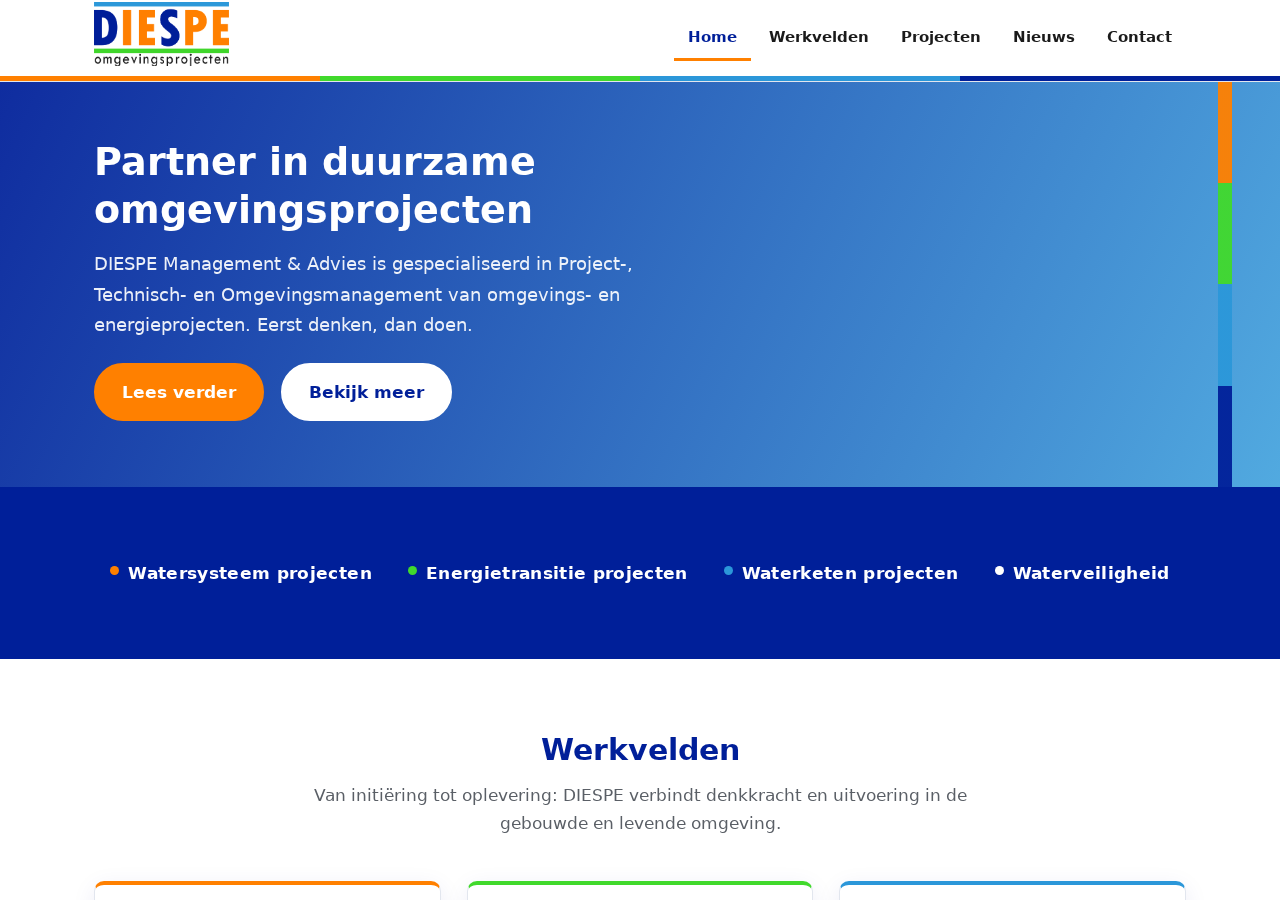
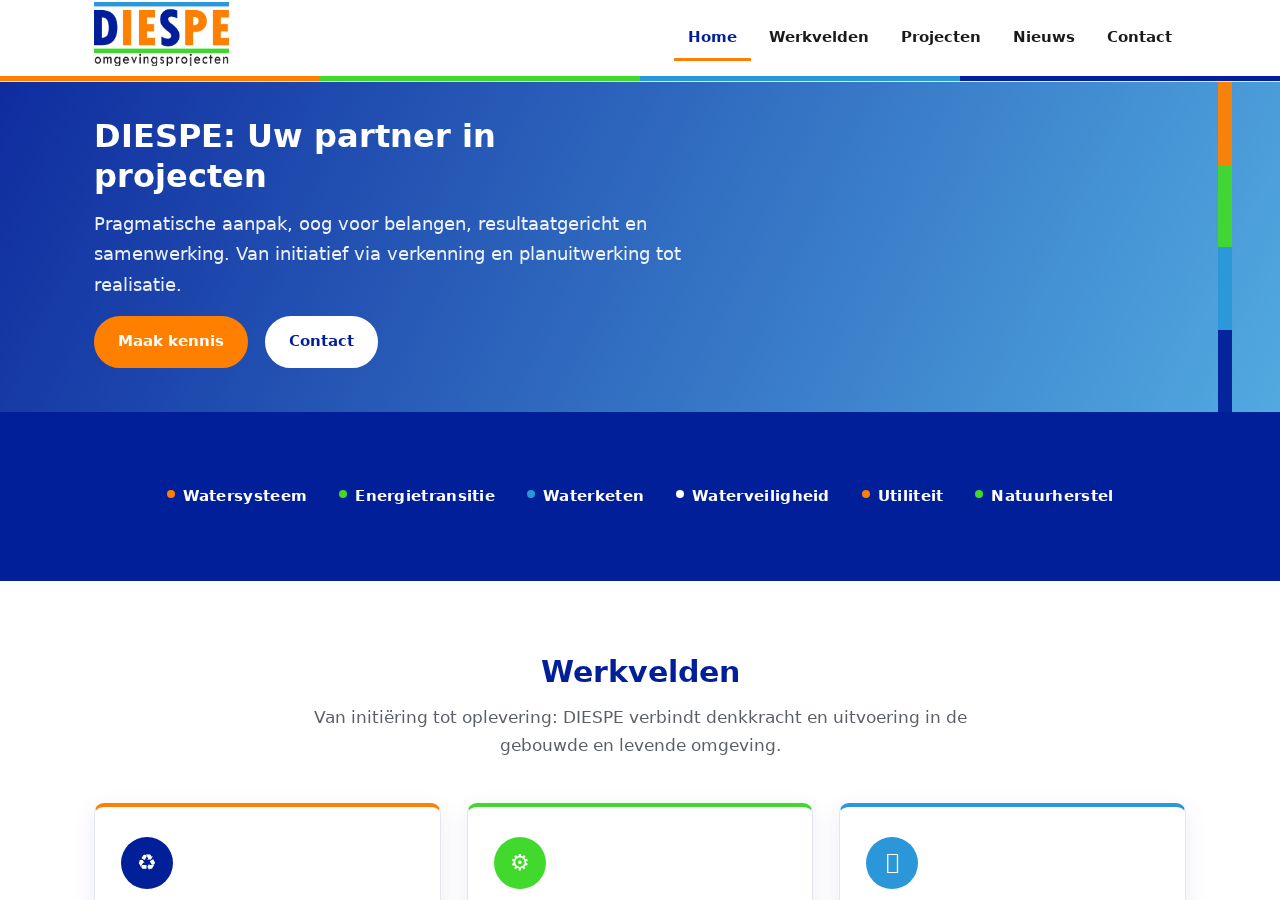
Hero en werkgebieden-balk herzien: nieuwe titel, wervende tekst, knoppen, compactere hoogte

diff --git a/preview/style.css b/preview/style.css
@@ -235,9 +235,13 @@ p { margin: 0 0 1.2em; }
   background:
     linear-gradient(115deg, rgba(0, 31, 153, 0.94), rgba(43, 151, 217, 0.82));
   color: #fff;
-  padding: 56px 0;
+  padding: 34px 0;
   overflow: hidden;
 }
+
+.hero h1 { font-size: 2rem; margin-bottom: 0.25em; }
+.hero p { font-size: 1.02rem; margin-bottom: 0.9em; }
+.hero .btn { padding: 11px 22px; font-size: 0.95rem; }
 
 .hero::after {
   content: "";
@@ -282,7 +286,7 @@ p { margin: 0 0 1.2em; }
 
 /* Werkgebieden-balk direct onder de hero */
 .workfields-strip {
-  padding: 22px 0;
+  padding: 12px 0;
   background: var(--diespe-blue);
   color: #fff;
 }
@@ -292,25 +296,28 @@ p { margin: 0 0 1.2em; }
   padding: 0;
   display: flex;
   flex-wrap: wrap;
-  gap: 10px 36px;
+  gap: 6px 32px;
   justify-content: center;
   font-weight: 700;
+  font-size: 0.95rem;
   letter-spacing: 0.02em;
 }
-.workfields-list li { position: relative; padding-left: 18px; }
+.workfields-list li { position: relative; padding-left: 16px; }
 .workfields-list li::before {
   content: "";
   position: absolute;
   left: 0;
-  top: 0.45em;
-  width: 9px;
-  height: 9px;
+  top: 0.4em;
+  width: 8px;
+  height: 8px;
   border-radius: 50%;
   background: var(--diespe-orange);
 }
 .workfields-list li:nth-child(2)::before { background: var(--diespe-green); }
 .workfields-list li:nth-child(3)::before { background: var(--diespe-blue-light); }
 .workfields-list li:nth-child(4)::before { background: #fff; }
+.workfields-list li:nth-child(5)::before { background: var(--diespe-orange); }
+.workfields-list li:nth-child(6)::before { background: var(--diespe-green); }
 
 /* =Secties
 -------------------------------------------------------------- */

diff --git a/style.css b/style.css
@@ -235,9 +235,13 @@ p { margin: 0 0 1.2em; }
   background:
     linear-gradient(115deg, rgba(0, 31, 153, 0.94), rgba(43, 151, 217, 0.82));
   color: #fff;
-  padding: 56px 0;
+  padding: 34px 0;
   overflow: hidden;
 }
+
+.hero h1 { font-size: 2rem; margin-bottom: 0.25em; }
+.hero p { font-size: 1.02rem; margin-bottom: 0.9em; }
+.hero .btn { padding: 11px 22px; font-size: 0.95rem; }
 
 .hero::after {
   content: "";
@@ -282,7 +286,7 @@ p { margin: 0 0 1.2em; }
 
 /* Werkgebieden-balk direct onder de hero */
 .workfields-strip {
-  padding: 22px 0;
+  padding: 12px 0;
   background: var(--diespe-blue);
   color: #fff;
 }
@@ -292,25 +296,28 @@ p { margin: 0 0 1.2em; }
   padding: 0;
   display: flex;
   flex-wrap: wrap;
-  gap: 10px 36px;
+  gap: 6px 32px;
   justify-content: center;
   font-weight: 700;
+  font-size: 0.95rem;
   letter-spacing: 0.02em;
 }
-.workfields-list li { position: relative; padding-left: 18px; }
+.workfields-list li { position: relative; padding-left: 16px; }
 .workfields-list li::before {
   content: "";
   position: absolute;
   left: 0;
-  top: 0.45em;
-  width: 9px;
-  height: 9px;
+  top: 0.4em;
+  width: 8px;
+  height: 8px;
   border-radius: 50%;
   background: var(--diespe-orange);
 }
 .workfields-list li:nth-child(2)::before { background: var(--diespe-green); }
 .workfields-list li:nth-child(3)::before { background: var(--diespe-blue-light); }
 .workfields-list li:nth-child(4)::before { background: #fff; }
+.workfields-list li:nth-child(5)::before { background: var(--diespe-orange); }
+.workfields-list li:nth-child(6)::before { background: var(--diespe-green); }
 
 /* =Secties
 -------------------------------------------------------------- */

diff --git a/preview/index.html b/preview/index.html
@@ -38,20 +38,22 @@
 
 <section class="hero">
   <div class="container">
-    <h1>Partner in duurzame omgevingsprojecten</h1>
-    <p>DIESPE Management &amp; Advies is gespecialiseerd in Project-, Technisch- en Omgevingsmanagement van omgevings- en energieprojecten. Eerst denken, dan doen.</p>
-    <a class="btn btn--accent" href="#werkvelden">Lees verder</a>
-    <a class="btn btn--white" href="#projecten">Bekijk meer</a>
+    <h1>DIESPE: Uw partner in projecten</h1>
+    <p>Pragmatische aanpak, oog voor belangen, resultaatgericht en samenwerking. Van initiatief via verkenning en planuitwerking tot realisatie.</p>
+    <a class="btn btn--accent" href="#">Maak kennis</a>
+    <a class="btn btn--white" href="#">Contact</a>
   </div>
 </section>
 
 <section class="section workfields-strip" id="werkgebieden">
   <div class="container">
     <ul class="workfields-list">
-      <li>Watersysteem projecten</li>
-      <li>Energietransitie projecten</li>
-      <li>Waterketen projecten</li>
+      <li>Watersysteem</li>
+      <li>Energietransitie</li>
+      <li>Waterketen</li>
       <li>Waterveiligheid</li>
+      <li>Utiliteit</li>
+      <li>Natuurherstel</li>
     </ul>
   </div>
 </section>

diff --git a/front-page.php b/front-page.php
@@ -10,25 +10,24 @@ get_header();
 
 <section class="hero">
 	<div class="container">
-		<h1><?php esc_html_e( 'Partner in duurzame omgevingsprojecten', 'diespe' ); ?></h1>
+		<h1><?php esc_html_e( 'DIESPE: Uw partner in projecten', 'diespe' ); ?></h1>
 		<p>
-			<?php esc_html_e( 'DIESPE Management & Advies is gespecialiseerd in Project-, Technisch- en Omgevingsmanagement van omgevings- en energieprojecten. Eerst denken, dan doen.', 'diespe' ); ?>
+			<?php esc_html_e( 'Pragmatische aanpak, oog voor belangen, resultaatgericht en samenwerking. Van initiatief via verkenning en planuitwerking tot realisatie.', 'diespe' ); ?>
 		</p>
-		<?php if ( get_theme_mod( 'diespe_tagline' ) ) : ?>
-			<p><em><?php echo esc_html( get_theme_mod( 'diespe_tagline' ) ); ?></em></p>
-		<?php endif; ?>
-		<a class="btn btn--accent" href="#werkvelden"><?php esc_html_e( 'Lees verder', 'diespe' ); ?></a>
-		<a class="btn btn--white" href="#projecten"><?php esc_html_e( 'Bekijk meer', 'diespe' ); ?></a>
+		<a class="btn btn--accent" href="<?php echo esc_url( home_url( '/over-diederik-speksnijder/' ) ); ?>"><?php esc_html_e( 'Maak kennis', 'diespe' ); ?></a>
+		<a class="btn btn--white" href="<?php echo esc_url( home_url( '/contact/' ) ); ?>"><?php esc_html_e( 'Contact', 'diespe' ); ?></a>
 	</div>
 </section>
 
 <section class="section workfields-strip" id="werkgebieden">
 	<div class="container">
 		<ul class="workfields-list">
-			<li><?php esc_html_e( 'Watersysteem projecten', 'diespe' ); ?></li>
-			<li><?php esc_html_e( 'Energietransitie projecten', 'diespe' ); ?></li>
-			<li><?php esc_html_e( 'Waterketen projecten', 'diespe' ); ?></li>
+			<li><?php esc_html_e( 'Watersysteem', 'diespe' ); ?></li>
+			<li><?php esc_html_e( 'Energietransitie', 'diespe' ); ?></li>
+			<li><?php esc_html_e( 'Waterketen', 'diespe' ); ?></li>
 			<li><?php esc_html_e( 'Waterveiligheid', 'diespe' ); ?></li>
+			<li><?php esc_html_e( 'Utiliteit', 'diespe' ); ?></li>
+			<li><?php esc_html_e( 'Natuurherstel', 'diespe' ); ?></li>
 		</ul>
 	</div>
 </section>
